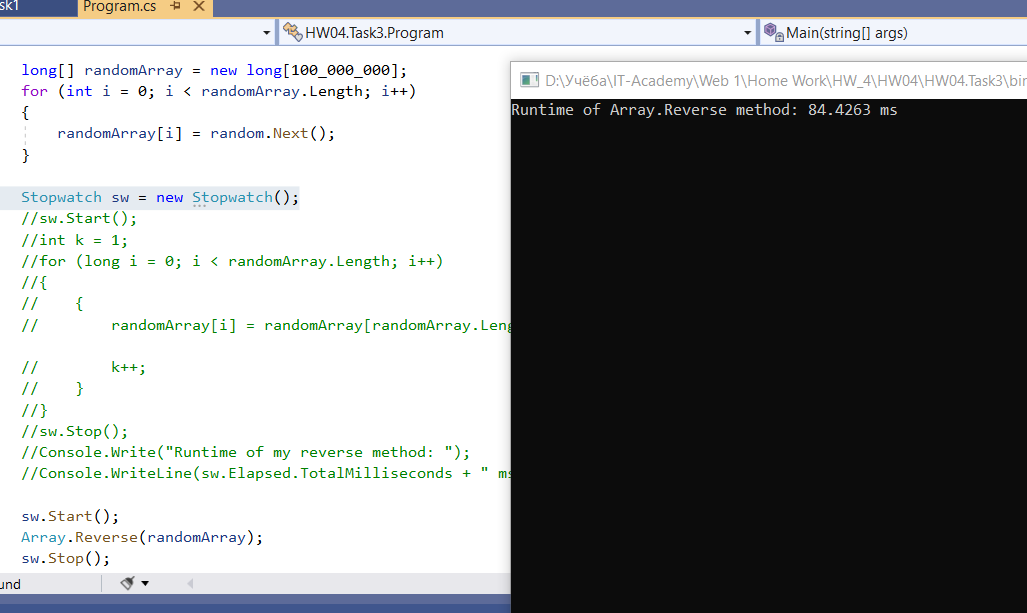
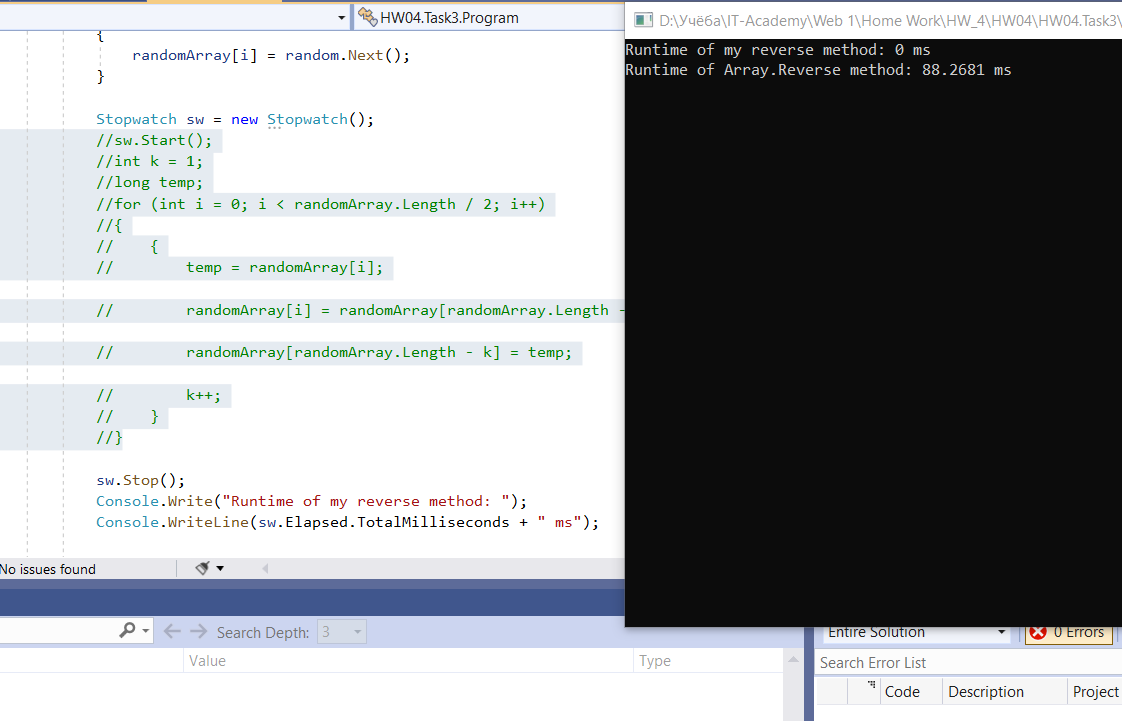
fixed the array reversal code

diff --git a/HW_4/HW04/HW04.Task3/Program.cs b/HW_4/HW04/HW04.Task3/Program.cs
@@ -18,14 +18,20 @@ namespace HW04.Task3
             Stopwatch sw = new Stopwatch();
             sw.Start();
             int k = 1;
-            for (long i = 0; i < randomArray.Length; i++)
+            long temp;
+            for (int i = 0; i < randomArray.Length / 2; i++)
             {
                 {
+                    temp = randomArray[i];
+
                     randomArray[i] = randomArray[randomArray.Length - k];
+
+                    randomArray[randomArray.Length - k] = temp;
 
                     k++;
                 }
             }
+
             sw.Stop();
             Console.Write("Runtime of my reverse method: ");
             Console.WriteLine(sw.Elapsed.TotalMilliseconds + " ms");
